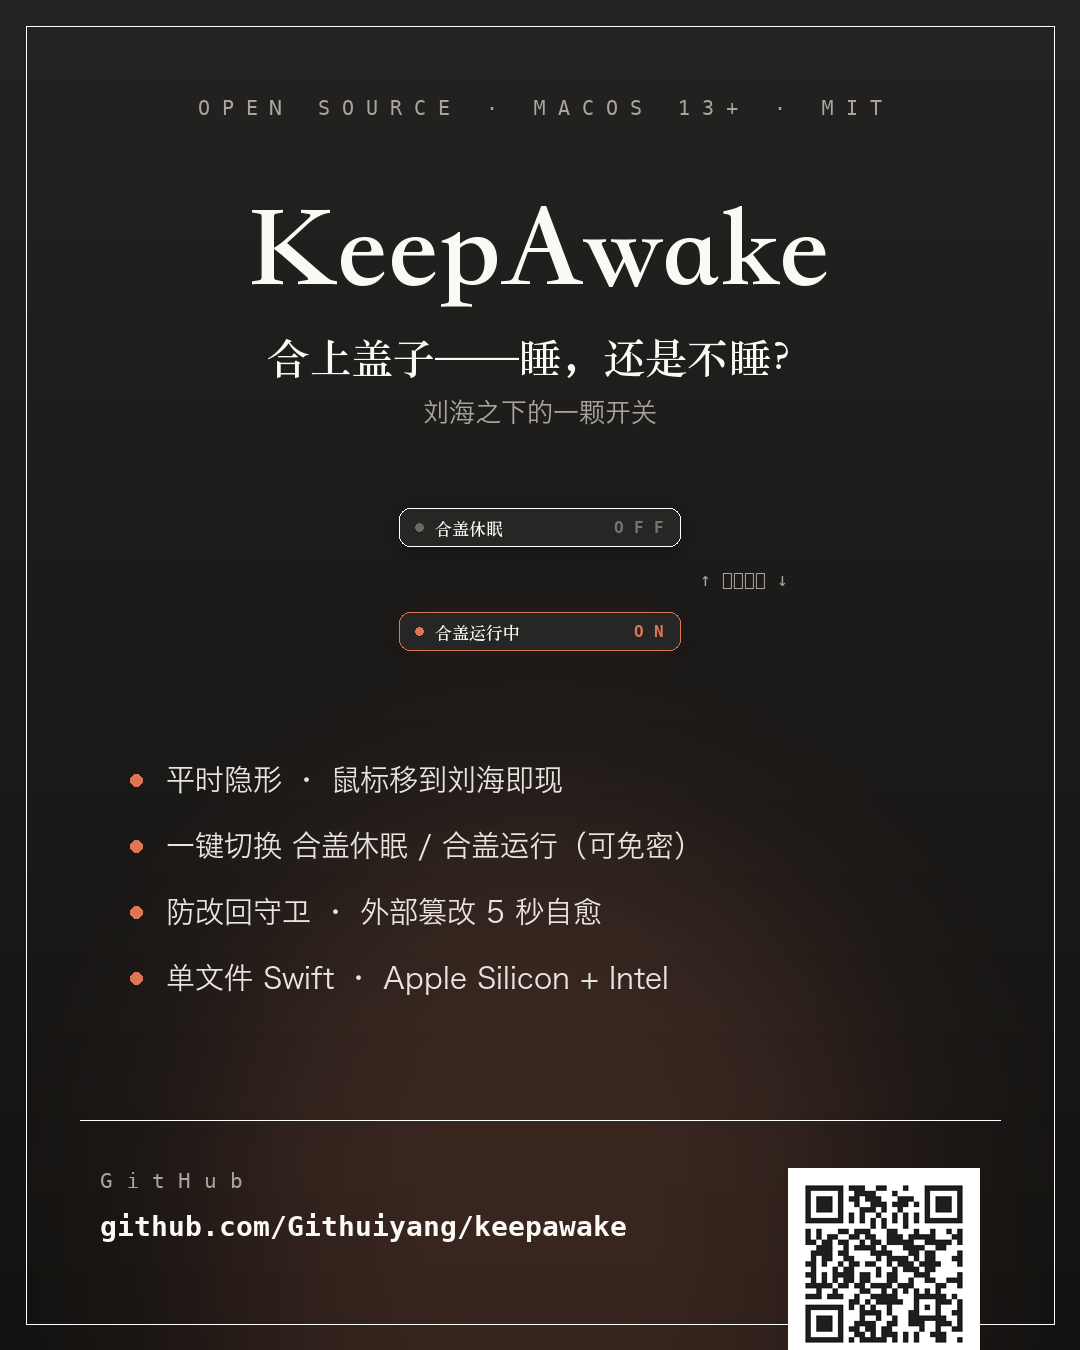
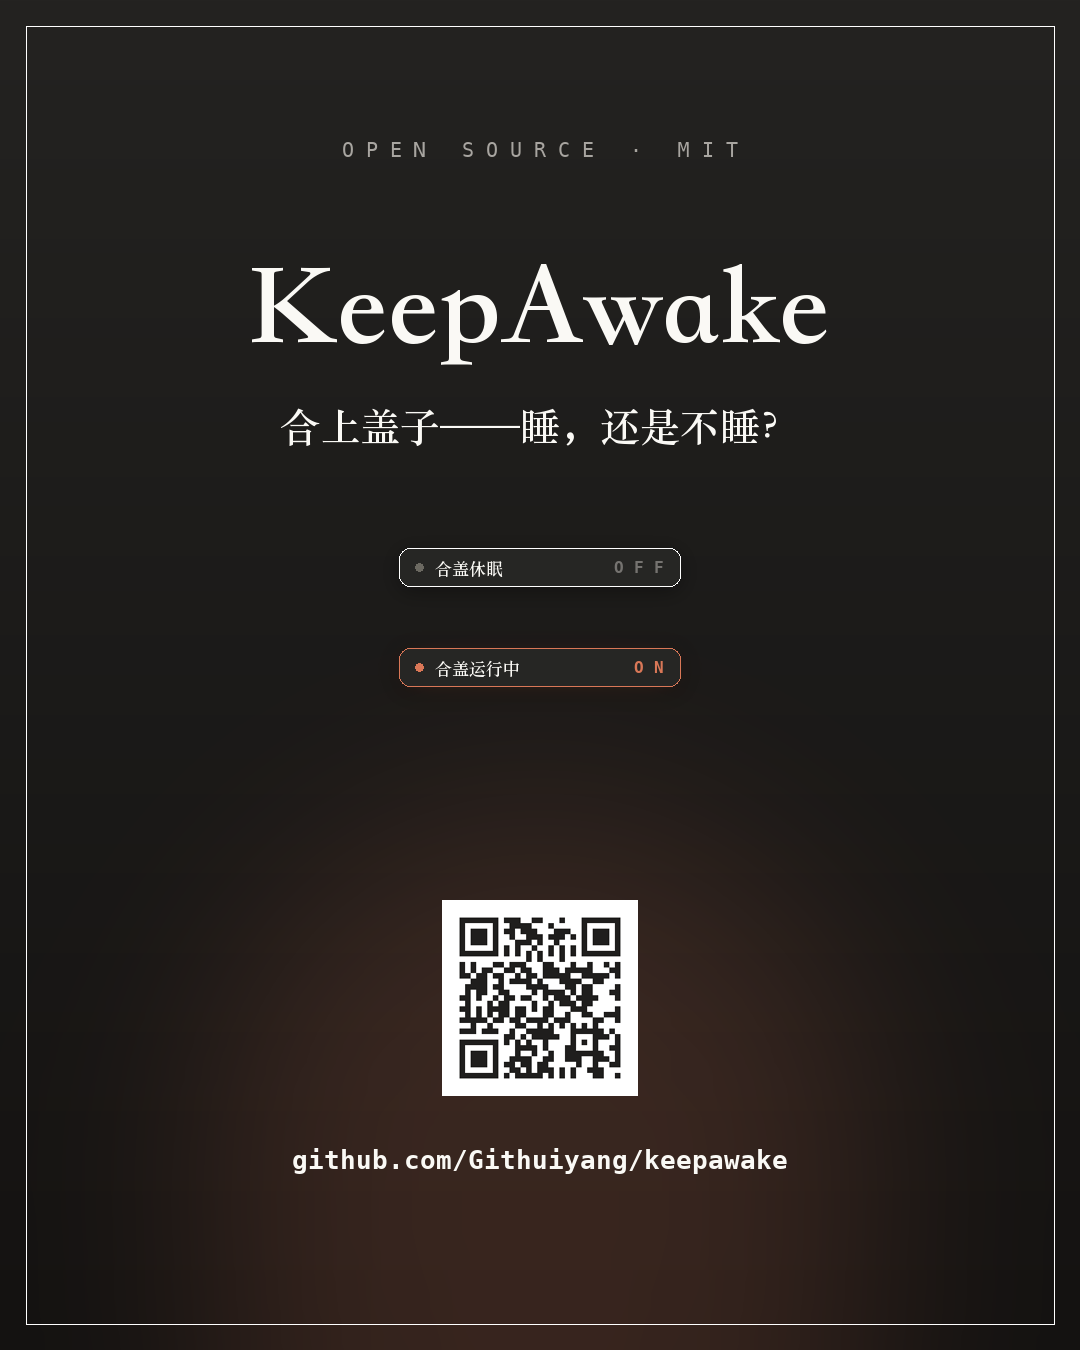
Promo card v2: fix QR overflow, minimal copy
- QR card was pasted at y=1168 with height 192 on a 1350 canvas →
  clipped 10px past the bottom edge and across the border frame.
  Now centered with geometric bounds assertion (56px inner margin).
- Verified scannable locally via cv2.QRCodeDetector (decodes to repo URL)
- Copy trimmed: dropped feature list, swap hint, sub-tagline, GitHub
  left block → badge line, title, one tagline, two state cards,
  centered QR + URL

diff --git a/gen_promo_images.py b/gen_promo_images.py
@@ -170,7 +170,6 @@ def usage_screenshot(is_on: bool, out: Path):
 def promo_card(out: Path):
     W, H = 1080, 1350
     img = v_gradient((W, H), (36, 35, 33), (19, 18, 17)).convert("RGBA")
-    # 底部橙色氛围光
     glow = Image.new("RGBA", (W, H), (0, 0, 0, 0))
     gd = ImageDraw.Draw(glow)
     gd.ellipse([W // 2 - 420, H - 620, W // 2 + 420, H + 220], fill=ACCENT + (46,))
@@ -180,55 +179,37 @@ def promo_card(out: Path):
     d = ImageDraw.Draw(img)
     d.rectangle([26, 26, W - 26, H - 26], outline=(255, 255, 255, 20), width=1)
 
+    # 极简层级：徽标行 → 标题 → 一句标语 → 双状态卡片 → 留白 → 二维码 → 地址
     mono_s = load_font(MENLO, 20, "Regular")
-    d.text((W // 2, 108), "O P E N   S O U R C E   ·   M A C O S   1 3 +   ·   M I T",
+    d.text((W // 2, 150), "O P E N   S O U R C E   ·   M I T",
            font=mono_s, fill=WARM_GRAY, anchor="mm")
 
     title_f = load_font(SONGTI, 118, "Bold")
-    d.text((W // 2, 248), "KeepAwake", font=title_f, fill=CREAM, anchor="mm")
+    d.text((W // 2, 306), "KeepAwake", font=title_f, fill=CREAM, anchor="mm")
 
-    tag_f = load_font(SONGTI, 42, "Bold")
-    d.text((W // 2, 356), "合上盖子——睡，还是不睡？", font=tag_f, fill=CREAM, anchor="mm")
-    sub_f = load_font(HIRAGINO, 26, "Regular")
-    d.text((W // 2, 412), "刘海之下的一颗开关", font=sub_f, fill=WARM_GRAY, anchor="mm")
+    tag_f = load_font(SONGTI, 40, "Bold")
+    d.text((W // 2, 424), "合上盖子——睡，还是不睡？", font=tag_f, fill=CREAM, anchor="mm")
 
-    # 双状态卡片
-    draw_card(img, (W // 2 - 141, 508), 1.6, False)
-    draw_card(img, (W // 2 - 141, 612), 1.6, True)
-    swap_f = load_font(MENLO, 18, "Regular")
-    d.text((W // 2 + 160, 580), "↑ 点击切换 ↓", font=swap_f, fill=WARM_GRAY, anchor="lm")
+    draw_card(img, (W // 2 - 141, 548), 1.6, False)
+    draw_card(img, (W // 2 - 141, 648), 1.6, True)
 
-    # 特性
-    feat_f = load_font(HIRAGINO, 29, "Medium")
-    feats = [
-        "平时隐形 · 鼠标移到刘海即现",
-        "一键切换 合盖休眠 / 合盖运行（可免密）",
-        "防改回守卫 · 外部篡改 5 秒自愈",
-        "单文件 Swift · Apple Silicon + Intel",
-    ]
-    y = 780
-    for line in feats:
-        d.ellipse([130, y - 6, 142, y + 6], fill=ACCENT)
-        d.text((166, y), line, font=feat_f, fill=(232, 229, 223), anchor="lm")
-        y += 66
-
-    # 底部：GitHub + 二维码
-    d.line([80, 1120, W - 80, 1120], fill=(255, 255, 255, 26), width=1)
-    gh_s = load_font(MENLO, 21, "Regular")
-    gh_f = load_font(MENLO, 28, "Bold")
-    d.text((100, 1180), "G i t H u b", font=gh_s, fill=WARM_GRAY, anchor="lm")
-    d.text((100, 1226), "github.com/Githuiyang/keepawake", font=gh_f, fill=CREAM, anchor="lm")
-
+    # 二维码：居中，严格在边框内（26..1054 / 26..1324）
     qr = qrcode.QRCode(border=1, box_size=8,
                        error_correction=qrcode.constants.ERROR_CORRECT_M)
     qr.add_data("https://github.com/Githuiyang/keepawake")
     qr.make(fit=True)
     qimg = qr.make_image(fill_color=(31, 30, 29), back_color="white").convert("RGB")
-    qimg = qimg.resize((168, 168))
-    qcard = Image.new("RGBA", (192, 192), (255, 255, 255, 255))
+    qimg = qimg.resize((172, 172))
+    qcard = Image.new("RGBA", (196, 196), (255, 255, 255, 255))
     qcard.paste(qimg, (12, 12))
-    d2 = ImageDraw.Draw(qcard)
-    img.paste(qcard, (W - 292, 1168), qcard)
+    qx, qy = (W - 196) // 2, 900
+    img.paste(qcard, (qx, qy), qcard)
+    # 几何断言：二维码必须完整落在边框内
+    assert qx >= 56 and qy >= 56 and qx + 196 <= W - 56 and qy + 196 <= H - 56, "QR 超界"
+
+    url_f = load_font(MENLO, 26, "Bold")
+    d.text((W // 2, 1160), "github.com/Githuiyang/keepawake",
+           font=url_f, fill=CREAM, anchor="mm")
 
     img.convert("RGB").save(out, "PNG")
     print(f"已生成 {out}")
